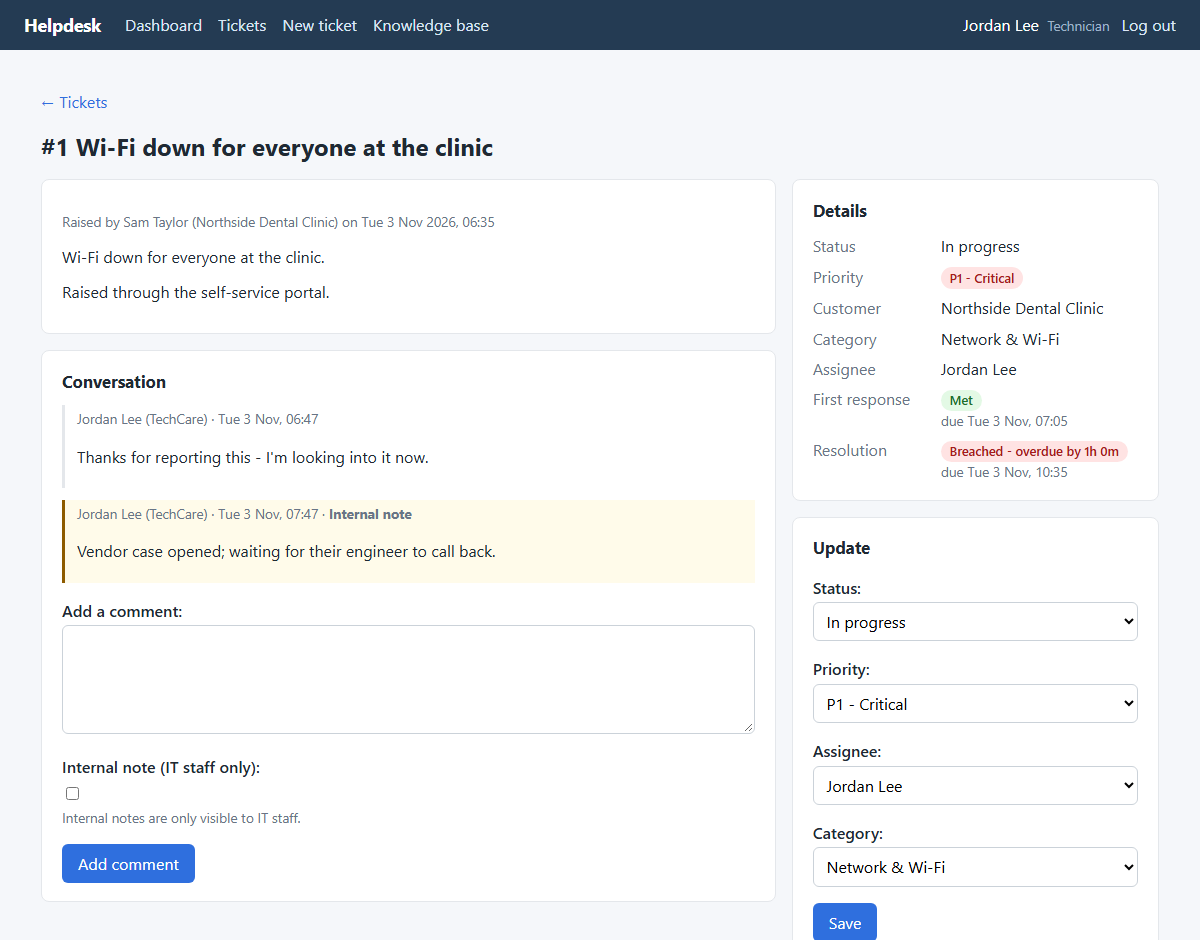
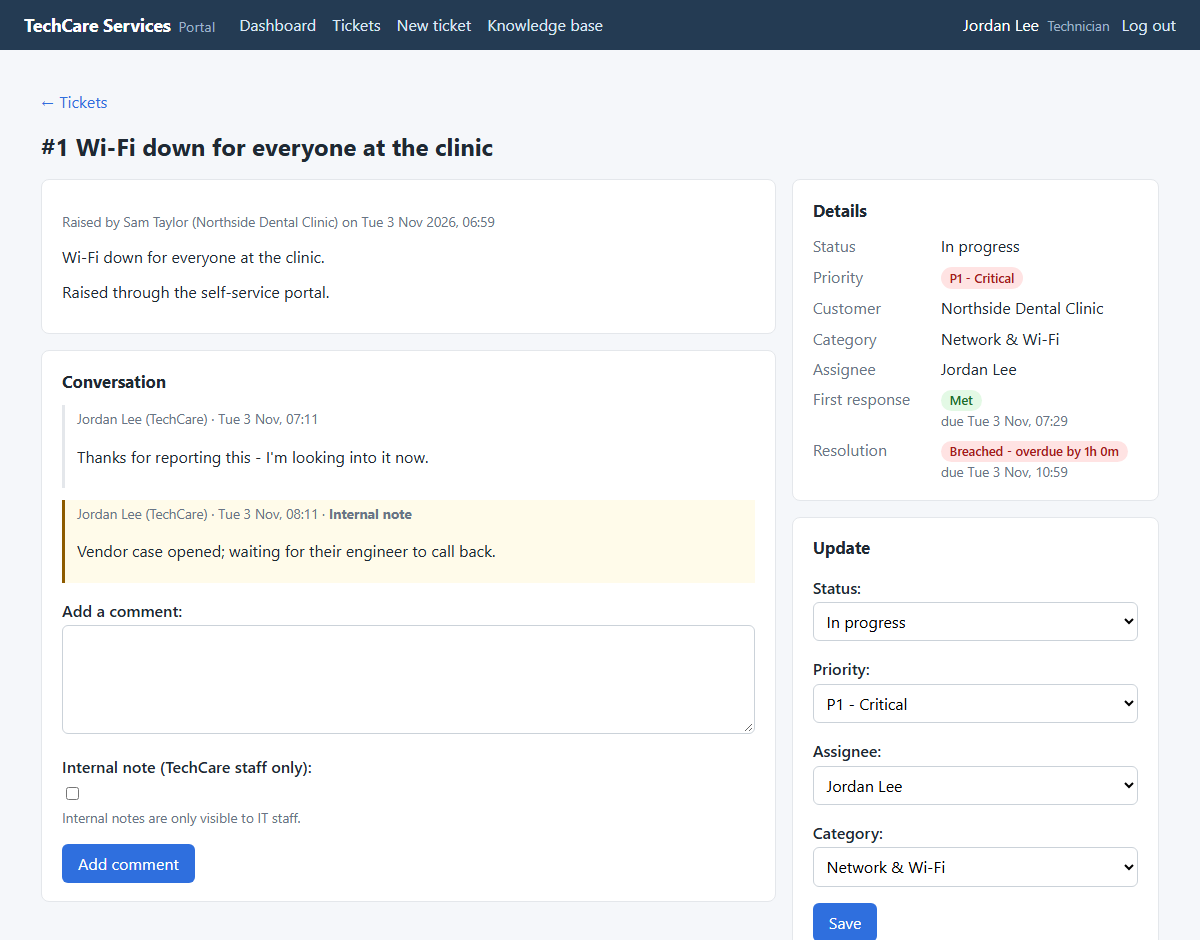
Document the website in the guide and README

diff --git a/docs/GUIDE.md b/docs/GUIDE.md
@@ -32,9 +32,13 @@ tickets** against time targets (**SLAs**), writes **knowledge-base articles** so
 fix common problems themselves, and watches a **dashboard** that shows what is late or about
 to be late.
 
-The app is the customer portal of **TechCare Services**, a fictional IT company that
-supports **business customers** (organisations) and **home customers**. There is one
-website, and what you see depends on your **role**:
+It belongs to **TechCare Services**, a fictional IT company that supports **business
+customers** (organisations) and **home customers**. There are two parts:
+
+- **The public website** (`/` and `/services/`). Anyone can visit it without logging in. It
+  explains what TechCare does, lists services and prices, and shows the response times.
+- **The portal** (everything under `/portal/`). Customers and staff log in here. It's one
+  portal for everyone, and what you see depends on your **role**:
 
 | Role | Who | What they see |
 |---|---|---|
@@ -61,7 +65,8 @@ python manage.py seed_demo          # prints the demo password
 python manage.py runserver
 ```
 
-Open http://127.0.0.1:8000 and follow this script:
+Open http://127.0.0.1:8000. That's the **public website**. Look around: *Services &
+prices*, *How it works* and *Response times*. Then click **Log in** and follow this script:
 
 The demo has these people (all fictional):
 
@@ -87,13 +92,16 @@ The demo has these people (all fictional):
    *Organisation tickets*. You see Sam's tickets **and Casey's**, with a *Raised by*
    column, but nothing from Harbour Freight. Open Casey's ticket: there is no internal note.
 6. **Log in as `casey.nguyen`** (staff at Northside). Casey sees only Casey's own tickets.
-   Try opening one of Sam's, e.g. `/tickets/1/`. You get *Not Found*.
+   Try opening one of Sam's, e.g. `/portal/tickets/1/`. You get *Not Found*.
 7. As Casey, click **New ticket**. The page suggests knowledge-base articles. Raise a
    ticket, then log back in as Sam: the new ticket shows up in Sam's list too.
 8. Open **Knowledge base** and search `wifi`. It finds the "Wi-Fi" article (hyphens are
    ignored).
 9. **Log in as `helpdesk.admin`** and open **Admin**, then *Organisations*, then
    *Northside Dental Clinic*. You see its members and who the manager is.
+10. Still in Admin, open **Services**. Change a price in the list, click *Save*, then click
+    **TechCare Services** in the portal header to go back to the website. The new price is
+    already there.
 
 ## 3. How a Django app fits together
 
@@ -102,7 +110,7 @@ same path:
 
 ```mermaid
 flowchart LR
-    B[Browser asks for /tickets/5/] --> U[urls.py<br/>finds the view]
+    B[Browser asks for /portal/tickets/5/] --> U[urls.py<br/>finds the view]
     U --> V[views.py<br/>checks login and permissions,<br/>asks the models for data]
     V --> M[models.py<br/>reads/writes the database]
     M --> V
@@ -113,7 +121,7 @@ flowchart LR
 | Piece | Job | In this project |
 |---|---|---|
 | **Settings** | Configuration: database, installed apps, time zone, secret key | `config/settings.py` |
-| **URLs** | Map an address to a view | `config/urls.py`, `helpdesk/urls.py` |
+| **URLs** | Map an address to a view | `config/urls.py`, `helpdesk/urls.py`, `website/urls.py` |
 | **Views** | Python functions that handle a request and return a page | `helpdesk/views.py` |
 | **Models** | Python classes that describe database tables | `helpdesk/models.py` |
 | **Migrations** | Files that create or change the tables to match the models | `helpdesk/migrations/` |
@@ -122,8 +130,10 @@ flowchart LR
 | **Admin** | A ready-made back office for editing data | `helpdesk/admin.py` |
 | **Management commands** | Your own `python manage.py ...` commands | `helpdesk/management/commands/` |
 
-`config` is the **project** (site-wide settings). `helpdesk` is an **app** (one feature
-area). A big site has several apps. This one has one so far.
+`config` is the **project** (site-wide settings). `helpdesk` and `website` are **apps**
+(feature areas). `helpdesk` is the portal and holds all the data. `website` is the public
+shop window: it has no tables of its own and only displays services and SLA promises that
+live in `helpdesk`.
 
 ## 4. Tour of the files
 
@@ -134,12 +144,12 @@ requirements.txt          Python packages to install (Django, python-dotenv)
 pyproject.toml            settings for ruff, the code checker
 config/
   settings.py             reads .env; apps, database, time zone, login pages
-  urls.py                 /admin/, /accounts/ (login/logout), everything else -> helpdesk
+  urls.py                 /admin/, /accounts/ (login/logout), /portal/ -> helpdesk, / -> website
   wsgi.py                 entry point for a production web server
 helpdesk/
   sla.py                  the SLA rules (no database code at all)
   roles.py                who is admin / technician / organisation manager / customer
-  models.py               Organisation, Profile, Category, Ticket, Comment, Article
+  models.py               Organisation, Profile, Service, Category, Ticket, Comment, Article
   signals.py              creates a Profile whenever a user is created
   views.py                one function per page
   urls.py                 the addresses of those pages
@@ -158,7 +168,15 @@ helpdesk/
     0001_initial.py                  creates the first tables
     0002_organisations_and_profiles.py   adds Organisation, Profile, Ticket.organisation
     0003_create_missing_profiles.py      gives users who already existed a profile
+    0004_services.py                     adds the Service price list
   tests/                  automatic tests (section 10)
+website/                  the public TechCare website (no models)
+  views.py                home page and services page
+  urls.py                 / and /services/
+  templates/website/      base.html (public header/footer), home.html, services.html,
+                          _service_card.html, _response_times.html (shared pieces)
+  static/website/site.css the website's own stylesheet
+  tests.py                tests for the public pages
 .github/workflows/ci.yml  GitHub runs the checks on every push
 docs/                     this guide and the screenshots
 ```
@@ -226,9 +244,22 @@ use `user.profile`.
 TechCare staff can see.
 
 **Article** is a knowledge-base page. `is_published = False` keeps it as a hidden draft.
-`slug` is the readable address part, e.g. `/kb/reset-your-password/`.
+`slug` is the readable address part, e.g. `/portal/kb/reset-your-password/`.
 
 **Category** is a simple list of names shared by tickets and articles.
+
+**Service** is one line of TechCare's price list, shown on the public website:
+
+| Field | Meaning |
+|---|---|
+| `name`, `slug` | e.g. "On-site repair visit", `on-site-repair-visit` |
+| `summary` | One line for the home page cards |
+| `description` | The longer text on the services page |
+| `audience` | `business`, `home` or `both`. Decides which list it appears in |
+| `delivery` | `onsite`, `remote` or `either` |
+| `price_from`, `price_unit` | e.g. `129.00` and "per visit", shown as "From $129 per visit" (`price_label`) |
+| `is_active` | Untick to hide it from the website without deleting it |
+| `sort_order` | Lower numbers are shown first |
 
 `TicketQuerySet` in `models.py` adds two shortcuts used everywhere:
 
@@ -291,6 +322,7 @@ hours), and they don't pause while waiting on the requester.
 
 | Action | Not logged in | Customer | Organisation manager | Technician / Admin |
 |---|---|---|---|---|
+| Public website (`/`, `/services/`) | yes | yes | yes | yes |
 | See the dashboard | login page | **403 Forbidden** | **403** | yes |
 | List tickets | login page | own only | own + organisation's, with *Raised by* | all, with customer filter |
 | Open a ticket | login page | own only (**404** otherwise) | own + organisation's (**404** otherwise) | all |
@@ -327,7 +359,7 @@ one place.
 
 ## 8. Life of a ticket, step by step
 
-**1. Sam raises a ticket.** The browser posts the form to `/tickets/new/`.
+**1. Sam raises a ticket.** The browser posts the form to `/portal/tickets/new/`.
 
 - `helpdesk/urls.py` maps that address to `views.ticket_create`.
 - `@login_required` checks that Sam is logged in.
@@ -338,7 +370,7 @@ one place.
   from the priority.
 - The view adds a "Ticket #25 raised" message and redirects to the ticket page.
 
-**2. Jordan replies.** A post to `/tickets/25/comment/` runs `views.ticket_comment`.
+**2. Jordan replies.** A post to `/portal/tickets/25/comment/` runs `views.ticket_comment`.
 
 - The ticket is fetched with `visible_to(request.user)`. Jordan is staff, so it's found.
 - `ticket.add_comment(...)` saves the comment. Because Jordan is staff, the comment is
@@ -346,7 +378,7 @@ one place.
   clock stops.**
 
 **3. Jordan asks Sam a question** and sets the status to *Waiting on requester* via
-`/tickets/25/update/` (`views.ticket_update`, staff only).
+`/portal/tickets/25/update/` (`views.ticket_update`, staff only).
 
 **4. Sam answers.** In `ticket_comment`, a requester replying to a *Waiting* ticket moves it
 back to **In progress**, so it shows up in IT's queue again.
@@ -375,13 +407,13 @@ database queries.
 
 ## 10. Tests and CI
 
-Run all 66 tests:
+Run all 78 tests:
 
 ```bash
 python manage.py test
 ```
 
-You should see `Ran 66 tests ... OK`. Each test creates its own empty test database, so
+You should see `Ran 78 tests ... OK`. Each test creates its own empty test database, so
 your real data is never touched.
 
 | File | What it checks |
@@ -390,7 +422,8 @@ your real data is never touched.
 | `tests/test_models.py` | Deadlines on create and on priority change, resolved/reopened, first-response rules, `open()` and `visible_to()` |
 | `tests/test_views.py` | Login redirects, 403/404 rules, raising/updating/commenting, internal-note privacy, list filters and order, dashboard counts, knowledge-base search |
 | `tests/test_organisations.py` | Profiles are created automatically, the four roles, which tickets each role can see/open/comment on, managers still blocked from staff pages, staff filter by customer, dashboard per-customer counts, admin pages |
-| `tests/test_seed_demo.py` | The demo data covers every SLA state and every customer type, the password option, and refusing to seed twice |
+| `tests/test_seed_demo.py` | The demo data covers every SLA state, every customer type and the price list, the password option, and refusing to seed twice |
+| `website/tests.py` | The public pages work without logging in, show only active services (at most 6 on the home page), group them for businesses and homes, show response times taken from `sla.py`, the "From $129 per visit" price format, and that login goes to the portal and logout back to the website |
 | `tests/helpers.py` | Small functions the tests share (`make_user`, `make_ticket`) |
 
 Run one file or one test while you work on something:
@@ -460,7 +493,12 @@ organisation (and later, with feature 3, they sign up themselves).
 **Add a category or knowledge-base article:** `/admin/`, then *Categories* or *Articles*,
 then *Add*. The slug fills itself in from the title.
 
-**Change an SLA target:** edit `SLA_TARGETS` in `helpdesk/sla.py`. Then update
+**Change a price or a service on the website:** `/admin/`, then *Services*. Price,
+*active* and sort order can be edited straight from the list. Untick *active* to hide a
+service. No code change or restart is needed.
+
+**Change an SLA target:** edit `SLA_TARGETS` in `helpdesk/sla.py`. The website's
+*Response times* table updates as well, because it reads the same numbers. Then update
 `tests/test_sla.py` (the test that lists the targets will fail until you do, which is
 the point), run the tests and commit. New saves use the new targets.
 
@@ -482,7 +520,8 @@ Questions you may get, with short answers in your own words:
 It's the customer portal for an IT services company, built in Django. Business and home
 customers raise tickets, technicians work them against SLA targets per priority, there's a
 knowledge base for self-service and a dashboard that shows what's breached or at risk.
-It has four roles, from customer up to admin, 66 automated tests and CI on GitHub.
+It has four roles, from customer up to admin, 78 automated tests and CI on GitHub. There's also a public website that
+reads its prices and response times from the same data the portal uses.
 
 **"How do the SLA timers work?"**
 Each priority has a first-response and a resolution target. When a ticket is saved, the
@@ -549,7 +588,7 @@ businesses and for people at home, on site or remotely. The helpdesk is becoming
 customer portal, one feature at a time, each with tests and an update to this guide:
 
 1. ~~**Organisations and roles.**~~ **Done.** See [16.1](#161-feature-1-organisations-and-roles).
-2. **Company website.** A public home page with services, how it works and prices.
+2. ~~**Company website.**~~ **Done.** See [16.2](#162-feature-2-the-techcare-website).
 3. **Self sign-up.** Home customers create an account with email, or with
    *Sign in with Google*.
 4. **Book a technician visit.** Choose a service, an address and a time slot. Technicians
@@ -615,3 +654,51 @@ still one website: what you see depends on your role.
    the dashboard. Their comments don't stop TechCare's first-response clock.
 
 **How to check it yourself:** steps 5 to 9 of the demo script in [section 2](#2-try-it-in-5-minutes).
+
+### 16.2 Feature 2: The TechCare website
+
+**Goal.** A public website for TechCare Services that anyone can visit: what the company
+does, for businesses and for homes, a price list, how it works and the response-time
+promise. Existing customers click *Log in* to reach the portal.
+
+**What changed**
+
+| File | Change |
+|---|---|
+| `website/` (new app) | `views.py` (home and services pages), `urls.py`, templates, `site.css`, `tests.py` |
+| `helpdesk/models.py` | New `Service` model (the price list) with `price_label`, `for_business` and `for_home` |
+| `migrations/0004_services.py` | Creates the service table |
+| `helpdesk/admin.py` | *Services* page. Price, active and order can be edited from the list |
+| `helpdesk/sla.py` | New `describe_duration()`, which turns a timedelta into "30 minutes" or "3 days" |
+| `config/urls.py` | The portal moved to `/portal/`, and `/` is now the website |
+| `config/settings.py` | `website` added to `INSTALLED_APPS`. Login goes to the portal, logout to the website |
+| portal templates | Header says **TechCare Services · Portal** and links back to the website. The login page has a link back too |
+| `seed_demo.py` | Eight services with realistic (fictional) prices |
+
+**Decisions and why**
+
+1. **A separate `website` app.** The public site and the portal change for different
+   reasons (marketing copy versus support workflow) and look different. Keeping them in
+   two apps keeps each one small and easy to read. `website` has **no models**: it only
+   reads `Service` and the SLA targets from `helpdesk`, so all the data lives in one place.
+2. **Services are in the database, not in the template.** Prices change. Storing them in a
+   table means an admin can update the price list in `/admin/` without a developer, and
+   features 4 and 5 (bookings and quotes) can point at the same `Service` rows.
+3. **The response-time table is read from `sla.py`.** The website and the ticket timers use
+   the same `SLA_TARGETS`, so the promise on the website can never drift away from what
+   the system actually measures. A test checks the table matches.
+4. **The portal moved under `/portal/`** by changing one line in `config/urls.py`
+   (`path("portal/", include("helpdesk.urls"))`). Every link in the code uses
+   `{% url %}` / `reverse()` by name, never a hard-coded address, so nothing else had to
+   change. That's why Django names URLs.
+5. **One page shell per side.** `website/base.html` and the portal's `base.html` each hold
+   the header and footer once. Shared pieces (`_service_card.html`,
+   `_response_times.html`) are included on both website pages instead of being copied.
+6. **Plain HTML and CSS, no JavaScript or CSS framework.** It works on phones (the
+   layout uses CSS grid with `auto-fit`, and the response-times table turns into stacked
+   rows on small screens), and there's nothing extra to install or keep updated.
+7. **Honest content.** The footer says TechCare is fictional, the email address uses the
+   reserved `.example` domain, and there are no phone numbers that could belong to someone.
+
+**How to check it yourself:** open http://127.0.0.1:8000, click around the website, then
+follow step 10 of the demo script in [section 2](#2-try-it-in-5-minutes) to change a price.

diff --git a/README.md b/README.md
@@ -1,19 +1,25 @@
-# Helpdesk Ticket Tracker
+# TechCare Services: website and helpdesk portal
 
 [![CI](https://github.com/ManojFam/helpdesk-ticket-tracker/actions/workflows/ci.yml/badge.svg)](https://github.com/ManojFam/helpdesk-ticket-tracker/actions/workflows/ci.yml)
 
-The customer portal of **TechCare Services**, a fictional IT company, built with Django.
-Business customers and home customers raise tickets, technicians work them against **SLA
+The public website and customer portal of **TechCare Services**, a fictional IT company,
+built with Django. The **website** shows services, prices and response times. In the
+**portal**, business and home customers raise tickets, technicians work them against **SLA
 timers**, a **knowledge base** helps people fix common problems themselves, and a
 **dashboard** shows what needs attention right now.
 
-![Dashboard](docs/dashboard.png)
+| Public website | Staff dashboard |
+|---|---|
+| ![Website](docs/website-home.png) | ![Dashboard](docs/dashboard.png) |
 
 **New to the code?** Read **[the guide](docs/GUIDE.md)**. It covers how the app works file by
 file, the data model, the SLA rules, permissions, a demo script and interview talking points.
 
 ## Features
 
+- **Public website** at `/`: what TechCare does for businesses and homes, how it works, a
+  services and prices page (`/services/`) managed in the admin, and the response-time table,
+  which is read from the same SLA rules the tickets use.
 - **Tickets** have a priority (P1 to P4), a status (New, In progress, Waiting on requester,
   Resolved, Closed), a category and an assignee. The conversation thread supports
   **internal notes** that only TechCare staff can see.
@@ -73,7 +79,8 @@ python manage.py seed_demo    # fictional demo data; prints the demo password
 python manage.py runserver
 ```
 
-Open http://127.0.0.1:8000 and log in as:
+Open http://127.0.0.1:8000 for the website, then click **Log in** to reach the portal
+(`/portal/`). Log in as:
 
 - `jordan.lee`, technician (dashboard, all tickets)
 - `sam.taylor`, manager at Northside Dental Clinic (all of Northside's tickets)
@@ -89,10 +96,11 @@ tickets are made up.
 
 ```text
 config/              settings (read from environment / .env), URLs, WSGI
-helpdesk/
+website/             the public website: home and services pages (no models of its own)
+helpdesk/            the portal and all the data:
   sla.py             SLA targets and the on-track / at-risk / breached / met rules
   roles.py           admin / technician / organisation manager / customer, in one place
-  models.py          Organisation, Profile, Category, Ticket, Comment, Article
+  models.py          Organisation, Profile, Service, Category, Ticket, Comment, Article
   signals.py         creates a profile for every new user
   views.py           dashboard, ticket list/detail/create, comments, updates, knowledge base
   forms.py           ticket, update and comment forms
@@ -131,6 +139,10 @@ Design choices:
   user one-to-one is the safe way to add fields to an existing project. A signal creates the
   profile for every new user, and a data migration covered existing users. Tickets keep the
   organisation they were raised under, even if the person later moves on.
+- **Website and portal are separate apps over one set of data.** The website has no tables
+  of its own: services are rows an admin edits, and the response-time table is generated from
+  `sla.py`, so the published promise always matches what the portal measures. The portal
+  sits under `/portal/`. Every link uses a named URL, so moving it was a one-line change.
 - **Configuration comes from environment variables.** `SECRET_KEY` is required, `DEBUG`
   defaults to off, and `.env` is never committed (see `.env.example`).
 
@@ -144,11 +156,11 @@ python manage.py test
 ruff check . && ruff format --check .
 ```
 
-There are 66 tests. They cover every SLA rule and boundary, due dates and priority changes,
+There are 78 tests. They cover every SLA rule and boundary, due dates and priority changes,
 first-response rules, what each of the four roles can see, comment on or update (including
 one customer never seeing another's tickets), internal-note privacy,
 ticket list filters and ordering, dashboard counts and compliance, knowledge-base search and
-drafts, and the demo seed command. Test runs use a fast password hasher so the suite takes
+drafts, the public website pages, and the demo seed command. Test runs use a fast password hasher so the suite takes
 under a second. GitHub Actions runs `manage.py check`, a missing-migrations check, ruff and the
 tests on every push.
 
